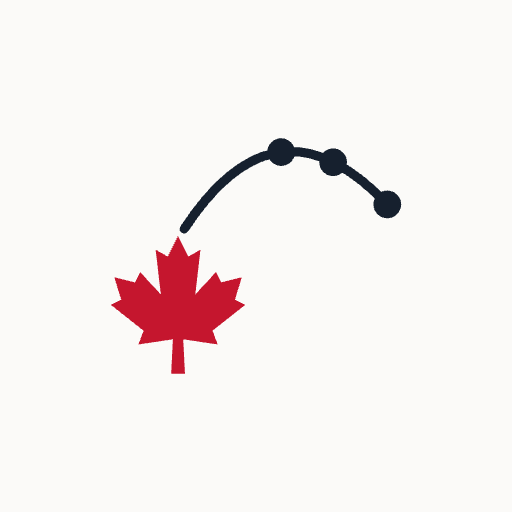
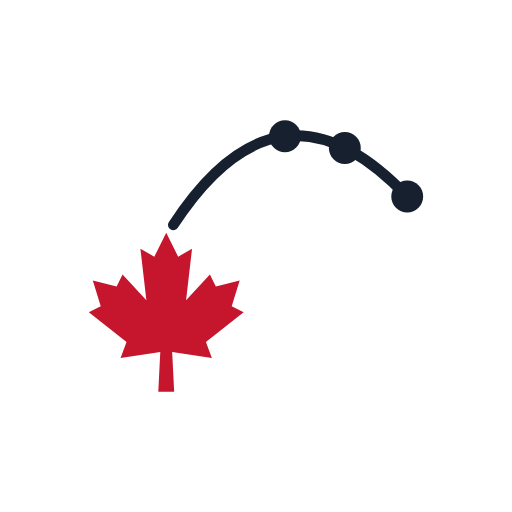
fix: close remaining v2.1 review items
- favicon: regenerate .ico, PNG and apple-touch rasters from new CGEC symbol
- remove gold italic headline override so no page hero uses gold (incl. markets)
- partnership timeline: exclusive partner year 2025 -> 2026
- replace remaining heart icons: Commitment to the Council (shield-check),
  UK Partner Matchmaking and Pre-Qualified Network (network),
  EEA Investment Protection (shield), EEA Parliamentary Summits (flag)

Claude-Session: https://claude.ai/code/session_014dctQ4xZRjnevaeVQPPA3q

Changed region(s): [[0.1562, 0.2188, 0.8438, 0.7812]]

diff --git a/partnership/index.html b/partnership/index.html
@@ -155,7 +155,7 @@ height="0" width="0" style="display:none;visibility:hidden"></iframe></noscript>
       <div class="tli"><div class="tly">Parliamentary Engagement</div><h4>European Parliament Accreditation</h4><p style="font-size:13.5px;">EICBI achieves full accreditation with the European Parliament  -  one of the most significant institutional recognitions available to a non-governmental organisation in Europe.</p></div>
       <div class="tli"><div class="tly">2019</div><h4>EuropeIndia40 Leaders List Launched</h4><p style="font-size:13.5px;">Launch of the flagship annual recognition platform identifying the next generation of leaders under 40 shaping Europe-India relations across business, policy, and civil society.</p></div>
       <div class="tli"><div class="tly">Ongoing</div><h4>Parliamentary Summits  -  Brussels &amp; London</h4><p style="font-size:13.5px;">Major summits convened at the European Parliament in Brussels and the British Parliament in London, engaging MEPs, parliamentarians, diplomats, and business leaders.</p></div>
-      <div class="tli"><div class="tly">2025</div><h4>CGEC Established as Exclusive Canadian Partner</h4><p style="font-size:13.5px;">Canada Global Export Council established as EICBI's exclusive Canadian partner, opening the Europe-India corridor to Canadian businesses for the first time through an institutional framework.</p></div>
+      <div class="tli"><div class="tly">2026</div><h4>CGEC Established as Exclusive Canadian Partner</h4><p style="font-size:13.5px;">Canada Global Export Council established as EICBI's exclusive Canadian partner, opening the Europe-India corridor to Canadian businesses for the first time through an institutional framework.</p></div>
     </div>
   </div>
 </section>
@@ -167,7 +167,7 @@ height="0" width="0" style="display:none;visibility:hidden"></iframe></noscript>
     <div class="g3">
       <div style="background:rgba(255,255,255,.04);border:1px solid rgba(255,255,255,.08);padding:28px;"><div style="width:40px;height:40px;background:rgba(255,255,255,.1);border:1px solid rgba(255,255,255,.2);display:flex;align-items:center;justify-content:center;margin-bottom:13px;"><span style="color:rgba(255,255,255,.85);"><svg xmlns="http://www.w3.org/2000/svg" viewBox="0 0 24 24" width="20" height="20" fill="none" stroke="currentColor" stroke-width="1.6" stroke-linecap="round" stroke-linejoin="round" aria-hidden="true" style="flex-shrink:0;vertical-align:middle;"><path d="M3 21h18M5 21V7l7-4 7 4v14M9 21v-6h6v6"/><path d="M9 9h.01M15 9h.01M9 14h.01M15 14h.01"/></svg></span></div><h4 style="color:rgba(255,255,255,.9);margin-bottom:7px;">Parliamentary-Level Introductions</h4><p style="color:rgba(255,255,255,.45);font-size:13.5px;">Access to MEPs, British parliamentarians, and senior government officials  -  relationships that normally take decades to build.</p></div>
       <div style="background:rgba(255,255,255,.04);border:1px solid rgba(255,255,255,.08);padding:28px;"><div style="width:40px;height:40px;background:rgba(255,255,255,.1);border:1px solid rgba(255,255,255,.2);display:flex;align-items:center;justify-content:center;margin-bottom:13px;"><span style="color:rgba(255,255,255,.85);"><svg xmlns="http://www.w3.org/2000/svg" viewBox="0 0 24 24" width="20" height="20" fill="none" stroke="currentColor" stroke-width="1.6" stroke-linecap="round" stroke-linejoin="round" aria-hidden="true" style="flex-shrink:0;vertical-align:middle;"><circle cx="12" cy="12" r="10"/><line x1="2" y1="12" x2="22" y2="12"/><path d="M12 2a15.3 15.3 0 0 1 4 10 15.3 15.3 0 0 1-4 10 15.3 15.3 0 0 1-4-10 15.3 15.3 0 0 1 4-10z"/></svg></span></div><h4 style="color:rgba(255,255,255,.9);margin-bottom:7px;">EU Institutional Access</h4><p style="color:rgba(255,255,255,.45);font-size:13.5px;">EICBI's EU Transparency Register status and Parliament accreditation gives CGEC members access unavailable to ordinary businesses.</p></div>
-      <div style="background:rgba(255,255,255,.04);border:1px solid rgba(255,255,255,.08);padding:28px;"><div style="width:40px;height:40px;background:rgba(255,255,255,.1);border:1px solid rgba(255,255,255,.2);display:flex;align-items:center;justify-content:center;margin-bottom:13px;"><span style="color:rgba(255,255,255,.85);"><svg xmlns="http://www.w3.org/2000/svg" viewBox="0 0 24 24" width="20" height="20" fill="none" stroke="currentColor" stroke-width="1.6" stroke-linecap="round" stroke-linejoin="round" aria-hidden="true" style="flex-shrink:0;vertical-align:middle;"><path d="M20.84 4.61a5.5 5.5 0 0 0-7.78 0L12 5.67l-1.06-1.06a5.5 5.5 0 0 0-7.78 7.78l1.06 1.06L12 21.23l7.78-7.78 1.06-1.06a5.5 5.5 0 0 0 0-7.78z"/></svg></span></div><h4 style="color:rgba(255,255,255,.9);margin-bottom:7px;">Pre-Qualified Network</h4><p style="color:rgba(255,255,255,.45);font-size:13.5px;">EICBI's network curated over 13 years  -  not a generic database, but a relationship network of business leaders, diplomats, and investors.</p></div>
+      <div style="background:rgba(255,255,255,.04);border:1px solid rgba(255,255,255,.08);padding:28px;"><div style="width:40px;height:40px;background:rgba(255,255,255,.1);border:1px solid rgba(255,255,255,.2);display:flex;align-items:center;justify-content:center;margin-bottom:13px;"><span style="color:rgba(255,255,255,.85);"><svg xmlns="http://www.w3.org/2000/svg" viewBox="0 0 24 24" width="20" height="20" fill="none" stroke="currentColor" stroke-width="1.6" stroke-linecap="round" stroke-linejoin="round" aria-hidden="true" style="flex-shrink:0;vertical-align:middle;"><circle cx="18" cy="5" r="3"/><circle cx="6" cy="12" r="3"/><circle cx="18" cy="19" r="3"/><line x1="8.59" y1="13.51" x2="15.42" y2="17.49"/><line x1="15.41" y1="6.51" x2="8.59" y2="10.49"/></svg></span></div><h4 style="color:rgba(255,255,255,.9);margin-bottom:7px;">Pre-Qualified Network</h4><p style="color:rgba(255,255,255,.45);font-size:13.5px;">EICBI's network curated over 13 years  -  not a generic database, but a relationship network of business leaders, diplomats, and investors.</p></div>
       <div style="background:rgba(255,255,255,.04);border:1px solid rgba(255,255,255,.08);padding:28px;"><div style="width:40px;height:40px;background:rgba(255,255,255,.1);border:1px solid rgba(255,255,255,.2);display:flex;align-items:center;justify-content:center;margin-bottom:13px;"><span style="color:rgba(255,255,255,.85);"><svg xmlns="http://www.w3.org/2000/svg" viewBox="0 0 24 24" width="20" height="20" fill="none" stroke="currentColor" stroke-width="1.6" stroke-linecap="round" stroke-linejoin="round" aria-hidden="true" style="flex-shrink:0;vertical-align:middle;"><path d="M4 22h16a2 2 0 0 0 2-2V4a2 2 0 0 0-2-2H8a2 2 0 0 0-2 2v16a2 2 0 0 0-1-1.73V22z"/><path d="M4 22a2 2 0 0 1-2-2V9.5a2 2 0 0 1 2-2h2"/><line x1="14" y1="7" x2="18" y2="7"/><line x1="14" y1="12" x2="18" y2="12"/><line x1="14" y1="17" x2="18" y2="17"/><line x1="10" y1="7" x2="10.01" y2="7"/><line x1="10" y1="12" x2="10.01" y2="12"/><line x1="10" y1="17" x2="10.01" y2="17"/></svg></span></div><h4 style="color:rgba(255,255,255,.9);margin-bottom:7px;">Europe India Journal</h4><p style="color:rgba(255,255,255,.45);font-size:13.5px;">CGEC members gain visibility through EICBI's flagship publication read by European and Indian policymakers and business leaders.</p></div>
       <div style="background:rgba(255,255,255,.04);border:1px solid rgba(255,255,255,.08);padding:28px;"><div style="width:40px;height:40px;background:rgba(255,255,255,.1);border:1px solid rgba(255,255,255,.2);display:flex;align-items:center;justify-content:center;margin-bottom:13px;"><span style="color:rgba(255,255,255,.85);"><svg xmlns="http://www.w3.org/2000/svg" viewBox="0 0 24 24" width="20" height="20" fill="none" stroke="currentColor" stroke-width="1.6" stroke-linecap="round" stroke-linejoin="round" aria-hidden="true" style="flex-shrink:0;vertical-align:middle;"><circle cx="12" cy="8" r="6"/><path d="M15.477 12.89L17 22l-5-3-5 3 1.523-9.11"/></svg></span></div><h4 style="color:rgba(255,255,255,.9);margin-bottom:7px;">EuropeIndia40 Nomination</h4><p style="color:rgba(255,255,255,.45);font-size:13.5px;">Eligible Canadian leaders in the CGEC network can be nominated for the EuropeIndia40 Leaders List  -  one of the most recognised platforms in the Europe-India corridor.</p></div>
       <div style="background:rgba(255,255,255,.04);border:1px solid rgba(255,255,255,.08);padding:28px;"><div style="width:40px;height:40px;background:rgba(255,255,255,.1);border:1px solid rgba(255,255,255,.2);display:flex;align-items:center;justify-content:center;margin-bottom:13px;"><span style="color:rgba(255,255,255,.85);"><svg xmlns="http://www.w3.org/2000/svg" viewBox="0 0 24 24" width="20" height="20" fill="none" stroke="currentColor" stroke-width="1.6" stroke-linecap="round" stroke-linejoin="round" aria-hidden="true" style="flex-shrink:0;vertical-align:middle;"><path d="M22 16.92v3a2 2 0 0 1-2.18 2 19.79 19.79 0 0 1-8.63-3.07A19.5 19.5 0 0 1 4.69 12 19.79 19.79 0 0 1 1.62 3.45 2 2 0 0 1 3.6 1h3a2 2 0 0 1 2 1.72 12.84 12.84 0 0 0 .7 2.81 2 2 0 0 1-.45 2.11L7.91 8.38a16 16 0 0 0 6 6l.88-.88a2 2 0 0 1 2.11-.45 12.84 12.84 0 0 0 2.81.7A2 2 0 0 1 22 15.92z"/></svg></span></div><h4 style="color:rgba(255,255,255,.9);margin-bottom:7px;">Summit &amp; Event Access</h4><p style="color:rgba(255,255,255,.45);font-size:13.5px;">Priority access to EICBI's parliamentary summits and business forums in Brussels, London, and key Indian cities.</p></div>

diff --git a/markets/eea/index.html b/markets/eea/index.html
@@ -149,7 +149,7 @@ height="0" width="0" style="display:none;visibility:hidden"></iframe></noscript>
       <div class="cw cbt" style="padding:26px;"><span class="ci"><svg xmlns="http://www.w3.org/2000/svg" viewBox="0 0 24 24" width="22" height="22" fill="none" stroke="currentColor" stroke-width="1.6" stroke-linecap="round" stroke-linejoin="round" aria-hidden="true"><path d="M20 7H4a2 2 0 0 0-2 2v10a2 2 0 0 0 2 2h16a2 2 0 0 0 2-2V9a2 2 0 0 0-2-2z"/><path d="M16 3l-4 4-4-4"/></svg></span><h3>Professional Services</h3><p style="font-size:13.5px;margin-top:5px;">Mutual recognition of professional qualifications, facilitating movement of Canadian professionals and service firms into European markets.</p></div>
       <div class="cw cbt" style="padding:26px;"><span class="ci"><svg xmlns="http://www.w3.org/2000/svg" viewBox="0 0 24 24" width="22" height="22" fill="none" stroke="currentColor" stroke-width="1.6" stroke-linecap="round" stroke-linejoin="round" aria-hidden="true"><line x1="9" y1="18" x2="15" y2="18"/><line x1="10" y1="22" x2="14" y2="22"/><path d="M15.09 14c.18-.98.65-1.74 1.41-2.5A4.65 4.65 0 0 0 18 8 6 6 0 0 0 6 8c0 1.43.59 2.58 1.5 3.5.76.76 1.23 1.52 1.41 2.5"/></svg></span><h3>Intellectual Property</h3><p style="font-size:13.5px;margin-top:5px;">Enhanced IP protection frameworks  -  particularly important for technology, pharmaceutical, and creative industry exporters.</p></div>
       <div class="cw cbt" style="padding:26px;"><span class="ci"><svg xmlns="http://www.w3.org/2000/svg" viewBox="0 0 24 24" width="22" height="22" fill="none" stroke="currentColor" stroke-width="1.6" stroke-linecap="round" stroke-linejoin="round" aria-hidden="true"><line x1="6" y1="13" x2="6" y2="2"/><line x1="10" y1="13" x2="10" y2="2"/><line x1="14" y1="7" x2="14" y2="2"/><rect x="4" y="13" width="8" height="8" rx="1"/><line x1="2" y1="20" x2="22" y2="20"/></svg></span><h3>Regulatory Cooperation</h3><p style="font-size:13.5px;margin-top:5px;">Mechanisms to reduce non-tariff barriers through regulatory cooperation, reducing compliance costs across EU member states.</p></div>
-      <div class="cw cbt" style="padding:26px;"><span class="ci"><svg xmlns="http://www.w3.org/2000/svg" viewBox="0 0 24 24" width="20" height="20" fill="none" stroke="currentColor" stroke-width="1.6" stroke-linecap="round" stroke-linejoin="round" aria-hidden="true" style="flex-shrink:0;vertical-align:middle;"><path d="M20.84 4.61a5.5 5.5 0 0 0-7.78 0L12 5.67l-1.06-1.06a5.5 5.5 0 0 0-7.78 7.78l1.06 1.06L12 21.23l7.78-7.78 1.06-1.06a5.5 5.5 0 0 0 0-7.78z"/></svg></span><h3>Investment Protection</h3><p style="font-size:13.5px;margin-top:5px;">Investor protection mechanisms providing Canadian businesses with legal certainty when establishing operations across the EEA.</p></div>
+      <div class="cw cbt" style="padding:26px;"><span class="ci"><svg xmlns="http://www.w3.org/2000/svg" viewBox="0 0 24 24" width="20" height="20" fill="none" stroke="currentColor" stroke-width="1.6" stroke-linecap="round" stroke-linejoin="round" aria-hidden="true" style="flex-shrink:0;vertical-align:middle;"><path d="M12 22s8-4 8-10V5l-8-3-8 3v7c0 6 8 10 8 10z"/></svg></span><h3>Investment Protection</h3><p style="font-size:13.5px;margin-top:5px;">Investor protection mechanisms providing Canadian businesses with legal certainty when establishing operations across the EEA.</p></div>
     </div>
   </div>
 </section>
@@ -165,7 +165,7 @@ height="0" width="0" style="display:none;visibility:hidden"></iframe></noscript>
     <div>
       <div class="crow"><div class="cico"><svg xmlns="http://www.w3.org/2000/svg" viewBox="0 0 24 24" width="20" height="20" fill="none" stroke="currentColor" stroke-width="1.6" stroke-linecap="round" stroke-linejoin="round" aria-hidden="true" style="flex-shrink:0;vertical-align:middle;"><path d="M3 21h18M5 21V7l7-4 7 4v14M9 21v-6h6v6"/><path d="M9 9h.01M15 9h.01M9 14h.01M15 14h.01"/></svg></div><div class="ctxt"><h5>European Parliament Accredited</h5><p>Among the most significant recognitions available to a non-governmental body in the EU.</p></div></div>
       <div class="crow"><div class="cico"><svg xmlns="http://www.w3.org/2000/svg" viewBox="0 0 24 24" width="20" height="20" fill="none" stroke="currentColor" stroke-width="1.6" stroke-linecap="round" stroke-linejoin="round" aria-hidden="true" style="flex-shrink:0;vertical-align:middle;"><path d="M14 2H6a2 2 0 0 0-2 2v16a2 2 0 0 0 2 2h12a2 2 0 0 0 2-2V8z"/><polyline points="14 2 14 8 20 8"/><line x1="16" y1="13" x2="8" y2="13"/><line x1="16" y1="17" x2="8" y2="17"/><polyline points="10 9 9 9 8 9"/></svg></div><div class="ctxt"><h5>EU Transparency Register No. 423661050520-44</h5><p>Registered with the European Commission as a legitimate geopolitical forum.</p></div></div>
-      <div class="crow"><div class="cico"><svg xmlns="http://www.w3.org/2000/svg" viewBox="0 0 24 24" width="20" height="20" fill="none" stroke="currentColor" stroke-width="1.6" stroke-linecap="round" stroke-linejoin="round" aria-hidden="true" style="flex-shrink:0;vertical-align:middle;"><path d="M20.84 4.61a5.5 5.5 0 0 0-7.78 0L12 5.67l-1.06-1.06a5.5 5.5 0 0 0-7.78 7.78l1.06 1.06L12 21.23l7.78-7.78 1.06-1.06a5.5 5.5 0 0 0 0-7.78z"/></svg></div><div class="ctxt"><h5>Parliamentary Summits in Brussels</h5><p>Major events at the European Parliament engaging MEPs, EU officials, and senior business leaders.</p></div></div>
+      <div class="crow"><div class="cico"><svg xmlns="http://www.w3.org/2000/svg" viewBox="0 0 24 24" width="20" height="20" fill="none" stroke="currentColor" stroke-width="1.6" stroke-linecap="round" stroke-linejoin="round" aria-hidden="true" style="flex-shrink:0;vertical-align:middle;"><path d="M4 15s1-1 4-1 5 2 8 2 4-1 4-1V3s-1 1-4 1-5-2-8-2-4 1-4 1z"/><line x1="4" y1="22" x2="4" y2="15"/></svg></div><div class="ctxt"><h5>Parliamentary Summits in Brussels</h5><p>Major events at the European Parliament engaging MEPs, EU officials, and senior business leaders.</p></div></div>
       <div class="crow"><div class="cico"><svg xmlns="http://www.w3.org/2000/svg" viewBox="0 0 24 24" width="20" height="20" fill="none" stroke="currentColor" stroke-width="1.6" stroke-linecap="round" stroke-linejoin="round" aria-hidden="true" style="flex-shrink:0;vertical-align:middle;"><rect x="3" y="4" width="18" height="18" rx="2" ry="2"/><line x1="16" y1="2" x2="16" y2="6"/><line x1="8" y1="2" x2="8" y2="6"/><line x1="3" y1="10" x2="21" y2="10"/></svg></div><div class="ctxt"><h5>13 Years of EU Engagement</h5><p>Over a decade of sustained institutional relationship-building across EU institutions and member states.</p></div></div>
     </div>
   </div>

diff --git a/markets/uk/index.html b/markets/uk/index.html
@@ -162,7 +162,7 @@ height="0" width="0" style="display:none;visibility:hidden"></iframe></noscript>
       <div class="cc cbl" style="padding:28px;display:flex;gap:16px;"><div style="width:40px;height:40px;background:var(--ink);display:flex;align-items:center;justify-content:center;font-size:16px;flex-shrink:0;"><svg xmlns="http://www.w3.org/2000/svg" viewBox="0 0 24 24" width="20" height="20" fill="none" stroke="currentColor" stroke-width="1.6" stroke-linecap="round" stroke-linejoin="round" aria-hidden="true" style="flex-shrink:0;vertical-align:middle;"><path d="M3 21h18M5 21V7l7-4 7 4v14M9 21v-6h6v6"/><path d="M9 9h.01M15 9h.01M9 14h.01M15 14h.01"/></svg></div><div><h4>Westminster Parliamentary Network</h4><p style="font-size:13.5px;margin-top:5px;">Through EICBI's parliamentary relationships in London, CGEC facilitates introductions to UK parliamentarians and government officials relevant to your sector.</p></div></div>
       <div class="cc cbl" style="padding:28px;display:flex;gap:16px;"><div style="width:40px;height:40px;background:var(--ink);display:flex;align-items:center;justify-content:center;font-size:16px;flex-shrink:0;"><svg xmlns="http://www.w3.org/2000/svg" viewBox="0 0 24 24" width="20" height="20" fill="none" stroke="currentColor" stroke-width="1.6" stroke-linecap="round" stroke-linejoin="round" aria-hidden="true" style="flex-shrink:0;vertical-align:middle;"><path d="M22 16.92v3a2 2 0 0 1-2.18 2 19.79 19.79 0 0 1-8.63-3.07A19.5 19.5 0 0 1 4.69 12 19.79 19.79 0 0 1 1.62 3.45 2 2 0 0 1 3.6 1h3a2 2 0 0 1 2 1.72 12.84 12.84 0 0 0 .7 2.81 2 2 0 0 1-.45 2.11L7.91 8.38a16 16 0 0 0 6 6l.88-.88a2 2 0 0 1 2.11-.45 12.84 12.84 0 0 0 2.81.7A2 2 0 0 1 22 15.92z"/></svg></div><div><h4>Canada-UK Trade Missions</h4><p style="font-size:13.5px;margin-top:5px;">Structured delegations to London with pre-arranged B2B meetings, government introductions, and sector roundtables  -  inaugural mission Spring 2026.</p></div></div>
       <div class="cc cbl" style="padding:28px;display:flex;gap:16px;"><div style="width:40px;height:40px;background:var(--ink);display:flex;align-items:center;justify-content:center;font-size:16px;flex-shrink:0;"><svg xmlns="http://www.w3.org/2000/svg" viewBox="0 0 24 24" width="20" height="20" fill="none" stroke="currentColor" stroke-width="1.6" stroke-linecap="round" stroke-linejoin="round" aria-hidden="true" style="flex-shrink:0;vertical-align:middle;"><path d="M14 2H6a2 2 0 0 0-2 2v16a2 2 0 0 0 2 2h12a2 2 0 0 0 2-2V8z"/><polyline points="14 2 14 8 20 8"/><line x1="16" y1="13" x2="8" y2="13"/><line x1="16" y1="17" x2="8" y2="17"/><polyline points="10 9 9 9 8 9"/></svg></div><div><h4>UK Regulatory Navigation</h4><p style="font-size:13.5px;margin-top:5px;">Expert guidance on post-Brexit regulatory requirements, the UK-Canada Trade Continuity Agreement, professional licensing, and business registration.</p></div></div>
-      <div class="cc cbl" style="padding:28px;display:flex;gap:16px;"><div style="width:40px;height:40px;background:var(--ink);display:flex;align-items:center;justify-content:center;font-size:16px;flex-shrink:0;"><svg xmlns="http://www.w3.org/2000/svg" viewBox="0 0 24 24" width="20" height="20" fill="none" stroke="currentColor" stroke-width="1.6" stroke-linecap="round" stroke-linejoin="round" aria-hidden="true" style="flex-shrink:0;vertical-align:middle;"><path d="M20.84 4.61a5.5 5.5 0 0 0-7.78 0L12 5.67l-1.06-1.06a5.5 5.5 0 0 0-7.78 7.78l1.06 1.06L12 21.23l7.78-7.78 1.06-1.06a5.5 5.5 0 0 0 0-7.78z"/></svg></div><div><h4>UK Partner Matchmaking</h4><p style="font-size:13.5px;margin-top:5px;">Access to EICBI's verified UK network  -  distributors, investors, legal advisors, and sector-specific contacts with a track record of working with Commonwealth partners.</p></div></div>
+      <div class="cc cbl" style="padding:28px;display:flex;gap:16px;"><div style="width:40px;height:40px;background:var(--ink);display:flex;align-items:center;justify-content:center;font-size:16px;flex-shrink:0;"><svg xmlns="http://www.w3.org/2000/svg" viewBox="0 0 24 24" width="20" height="20" fill="none" stroke="currentColor" stroke-width="1.6" stroke-linecap="round" stroke-linejoin="round" aria-hidden="true" style="flex-shrink:0;vertical-align:middle;"><circle cx="18" cy="5" r="3"/><circle cx="6" cy="12" r="3"/><circle cx="18" cy="19" r="3"/><line x1="8.59" y1="13.51" x2="15.42" y2="17.49"/><line x1="15.41" y1="6.51" x2="8.59" y2="10.49"/></svg></div><div><h4>UK Partner Matchmaking</h4><p style="font-size:13.5px;margin-top:5px;">Access to EICBI's verified UK network  -  distributors, investors, legal advisors, and sector-specific contacts with a track record of working with Commonwealth partners.</p></div></div>
     </div>
   </div>
 </section>

diff --git a/apply/index.html b/apply/index.html
@@ -126,7 +126,7 @@ height="0" width="0" style="display:none;visibility:hidden"></iframe></noscript>
         <div class="cc cbl" style="padding:20px 22px;display:flex;gap:13px;align-items:flex-start;"><div style="width:30px;height:30px;background:var(--white);border:1px solid var(--stone);display:flex;align-items:center;justify-content:center;font-size:13px;flex-shrink:0;"><svg xmlns="http://www.w3.org/2000/svg" viewBox="0 0 24 24" width="20" height="20" fill="none" stroke="currentColor" stroke-width="1.6" stroke-linecap="round" stroke-linejoin="round" aria-hidden="true" style="flex-shrink:0;vertical-align:middle;"><path d="M12 2L9 9l-7 1 5 5-1.5 7L12 18l6.5 4L17 15l5-5-7-1z"/></svg></div><div><h4 style="font-size:14px;">Canadian-Registered Business</h4><p style="font-size:13px;margin-top:3px;">Must be incorporated or registered to operate in Canada  -  federal or provincial registration accepted.</p></div></div>
         <div class="cc cbl" style="padding:20px 22px;display:flex;gap:13px;align-items:flex-start;"><div style="width:30px;height:30px;background:var(--white);border:1px solid var(--stone);display:flex;align-items:center;justify-content:center;font-size:13px;flex-shrink:0;"><svg xmlns="http://www.w3.org/2000/svg" viewBox="0 0 24 24" width="20" height="20" fill="none" stroke="currentColor" stroke-width="1.6" stroke-linecap="round" stroke-linejoin="round" aria-hidden="true" style="flex-shrink:0;vertical-align:middle;"><circle cx="12" cy="12" r="10"/><line x1="2" y1="12" x2="22" y2="12"/><path d="M12 2a15.3 15.3 0 0 1 4 10 15.3 15.3 0 0 1-4 10 15.3 15.3 0 0 1-4-10 15.3 15.3 0 0 1 4-10z"/></svg></div><div><h4 style="font-size:14px;">Export Intent</h4><p style="font-size:13px;margin-top:3px;">Must have genuine commercial interest in the UK, EEA, or Indian markets  -  at any stage of readiness.</p></div></div>
         <div class="cc cbl" style="padding:20px 22px;display:flex;gap:13px;align-items:flex-start;"><div style="width:30px;height:30px;background:var(--white);border:1px solid var(--stone);display:flex;align-items:center;justify-content:center;font-size:13px;flex-shrink:0;"><svg xmlns="http://www.w3.org/2000/svg" viewBox="0 0 24 24" width="22" height="22" fill="none" stroke="currentColor" stroke-width="1.6" stroke-linecap="round" stroke-linejoin="round" aria-hidden="true"><polyline points="20 6 9 17 4 12"/></svg></div><div><h4 style="font-size:14px;">Good Standing</h4><p style="font-size:13px;margin-top:3px;">Business must be in good legal and financial standing, with no material regulatory or legal issues.</p></div></div>
-        <div class="cc cbl" style="padding:20px 22px;display:flex;gap:13px;align-items:flex-start;"><div style="width:30px;height:30px;background:var(--white);border:1px solid var(--stone);display:flex;align-items:center;justify-content:center;font-size:13px;flex-shrink:0;"><svg xmlns="http://www.w3.org/2000/svg" viewBox="0 0 24 24" width="20" height="20" fill="none" stroke="currentColor" stroke-width="1.6" stroke-linecap="round" stroke-linejoin="round" aria-hidden="true" style="flex-shrink:0;vertical-align:middle;"><path d="M20.84 4.61a5.5 5.5 0 0 0-7.78 0L12 5.67l-1.06-1.06a5.5 5.5 0 0 0-7.78 7.78l1.06 1.06L12 21.23l7.78-7.78 1.06-1.06a5.5 5.5 0 0 0 0-7.78z"/></svg></div><div><h4 style="font-size:14px;">Commitment to the Council</h4><p style="font-size:13px;margin-top:3px;">Members are expected to engage actively with CGEC programmes and contribute to the Council community.</p></div></div>
+        <div class="cc cbl" style="padding:20px 22px;display:flex;gap:13px;align-items:flex-start;"><div style="width:30px;height:30px;background:var(--white);border:1px solid var(--stone);display:flex;align-items:center;justify-content:center;font-size:13px;flex-shrink:0;"><svg xmlns="http://www.w3.org/2000/svg" viewBox="0 0 24 24" width="20" height="20" fill="none" stroke="currentColor" stroke-width="1.6" stroke-linecap="round" stroke-linejoin="round" aria-hidden="true" style="flex-shrink:0;vertical-align:middle;"><path d="M12 22s8-4 8-10V5l-8-3-8 3v7c0 6 8 10 8 10z"/><polyline points="9 12 11 14 15 10"/></svg></div><div><h4 style="font-size:14px;">Commitment to the Council</h4><p style="font-size:13px;margin-top:3px;">Members are expected to engage actively with CGEC programmes and contribute to the Council community.</p></div></div>
       </div>
     </div>
     <div>

diff --git a/assets/css/cgec.css b/assets/css/cgec.css
@@ -46,7 +46,7 @@ nav a:hover,nav a.act{background:var(--paper);color:var(--red);}
 .pe{display:inline-flex;align-items:center;gap:9px;font-size:10.5px;letter-spacing:.12em;text-transform:uppercase;color:rgba(255,255,255,.55);font-weight:500;margin-bottom:13px;}
 .pe::before{content:'';display:block;width:26px;height:1px;background:rgba(255,255,255,.35);}
 .ph h1{font-family:'Libre Franklin',sans-serif;font-size:clamp(28px,4vw,48px);font-weight:600;color:var(--white);line-height:1.14;margin-bottom:16px;max-width:700px;}
-.ph h1 em{font-style:italic;color:var(--white);}.market-page .ph h1 em{color:var(--gold);}
+.ph h1 em{font-style:italic;color:var(--white);}
 .phs{font-size:15px;color:rgba(255,255,255,.55);max-width:570px;line-height:1.8;font-weight:300;}
 .hstats{display:flex;gap:40px;margin-top:32px;flex-wrap:wrap;}
 .hstats .sn{font-family:'Libre Franklin',sans-serif;font-size:34px;font-weight:700;color:var(--white);line-height:1;}
